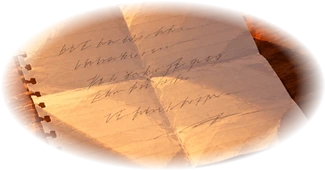
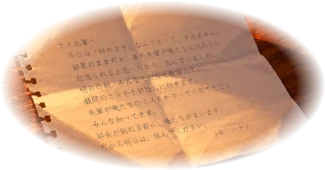
第四章：ハヤトの手紙を読める手書きの字に書き直す

diff --git a/index.html b/index.html
@@ -3276,9 +3276,9 @@
   async function viewLetter() {
     await overlayWait(`<p class="eyebrow">持ち物</p><h2>ハヤトの手紙</h2><img class="cg" src="img/g_letter.webp" alt="ノートを破った紙に、鉛筆で書かれた手紙">
       <div class="quote"><p>ケイ先輩へ</p>
-      <p>今日、いきなり「辞めます」なんて言って、すみませんでした。</p>
-      <p>本当は、明日の朝、担任の先生と教頭先生のところへ行って、顧問のことを全部話すつもりです。部員のままだと、また先輩が俺たちの代わりに怒鳴られると思って、先に辞めるって言いました。でも、ユウマも、ミナトも、ダイチも、シュンも、一緒に行くって言ってくれました。</p>
-      <p>先輩が、俺たちのミスを全部かぶってくれてたこと、みんな知ってます。</p>
+      <p>今日は「辞めます」なんて言って、すみません。部員のままだと、また先輩が俺たちの代わりに怒鳴られると思ったから、先に言いました。</p>
+      <p>明日の朝、みんなで担任と教頭先生に、顧問のことを全部話しに行きます。</p>
+      <p>先輩が俺たちのミスをかぶってくれてたこと、みんな知ってます。</p>
       <p>部長が倒れる前に、俺たちが言います。だから明日は、休んでください。</p>
       <p>1年　ハヤト</p></div>`, '', ['閉じる']);
     closeOverlay();
